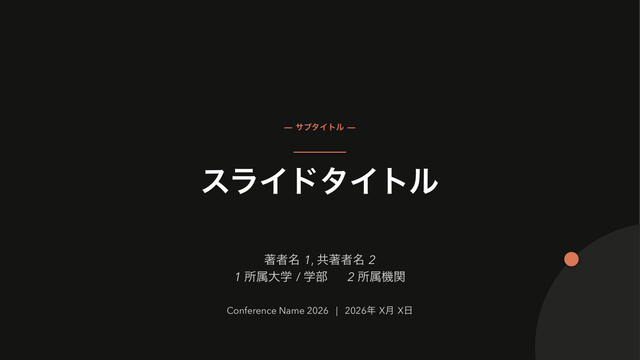
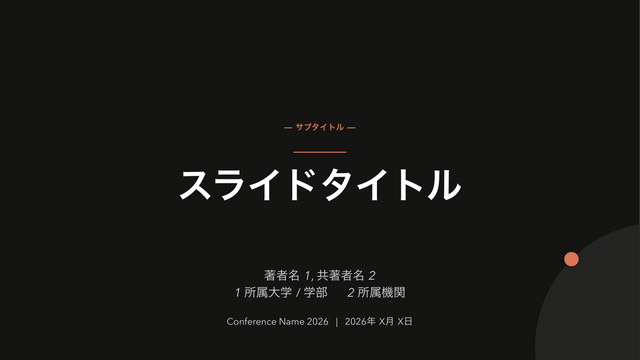
graphical-abstract (58th type): the one-figure story every talk owes
「グラフィカルアブストラクトもないとダメ」— the research-talk staple
had no type. graphical-abstract composes 課題 ▶ 提案 ▶ 成果 as one
native figure: a light problem card, an accent-framed method card with
an optional mini step chain (ga-steps, split on →), and a dark result
field carrying the hero number (ga-kpi, ~50pt, measured box), joined by
fat accent chevrons, with a ga-foot line for the measurement conditions.
All shapes editable; h2 renders as the lead line.

- parser: ga-problem/ga-method/ga-result divs with ga-label/ga-body/
  ga-kpi/ga-steps spans + ga-foot
- doctrine: SKILL.md + MCP authoring_guide now say "graphical-abstract
  right after the cover" — the audience gets the whole story in two
  slides
- showcase gains it as slide 2 (21 slides), doctor-clean

181 passed (counts at 58); gallery 58/58; skeletons regenerated.

Claude-Session: https://claude.ai/code/session_017fP3X4NokWzessKVkvdYeN

Changed region(s): [[0.3438, 0.7028, 0.6562, 0.9167], [0.2812, 0.4583, 0.7188, 0.55]]

diff --git a/src/marp_pptx/builder.py b/src/marp_pptx/builder.py
@@ -2686,6 +2686,141 @@ class PptxBuilder:
         d2.fill.solid(); d2.fill.fore_color.rgb = self.ACCENT
         d2.line.fill.background(); self._no_shadow(d2)
 
+    def build_graphical_abstract(self, sd: SlideData):
+        """研究の一枚絵: 課題 → 手法 → 成果 の3パネルを太矢印で繋ぐ。
+
+        The figure every research talk owes its audience right after the
+        cover — the whole story at a glance. All native shapes: a light
+        problem card, an accent-framed method card (optionally with a mini
+        step chain), and a dark result field with the hero number.
+        """
+        slide = self._blank_slide()
+        if sd.h1:
+            self._add_title(slide, sd.h1)
+        rleft, rtop, rwidth, rheight = self._content_region_with_lead(slide, sd)
+        ga = sd.ga or {}
+        panels = [(k, ga.get(k) or {}) for k in ("problem", "method", "result")]
+        if not any(p for _, p in panels):
+            self._warn("graphical-abstract: no ga-problem/ga-method/ga-result divs")
+            return
+        arrow_w = int(Inches(0.55))
+        gap = int(Inches(0.22))
+        pw = (rwidth - 2 * (arrow_w + 2 * gap)) // 3
+        pad = int(Pt(14))
+        inner = pw - pad * 2
+        label_h = int(Inches(0.34))
+        # measure: tallest panel decides the shared height
+        need = int(Inches(1.6))
+        for key, pdata in panels:
+            h = label_h + int(Pt(8))
+            if key == "result" and pdata.get("kpi"):
+                h += int(Pt(SZ_METRIC.pt * 1.15 * metrics.DEFAULT_LINE_FACTOR))
+            if pdata.get("steps"):
+                h += int(Inches(0.5))
+            if pdata.get("body"):
+                h += int(self._estimate_text_height(
+                    pdata["body"].split("\n"), SZ_ZONE_B, width=inner,
+                    line_spacing=LINE_BODY))
+            need = max(need, h + pad * 2)
+        foot = ga.get("foot", "")
+        foot_h = (int(self._estimate_text_height([foot], SZ_SMALL, width=rwidth))
+                  + int(Inches(0.14))) if foot else 0
+        ph = int(min(need, rheight - foot_h - int(Inches(0.1))))
+        top = rtop + max(0, (rheight - ph - foot_h) // 2)
+
+        x = rleft
+        for pi, (key, pdata) in enumerate(panels):
+            dark = key == "result"
+            bx = slide.shapes.add_shape(MSO_SHAPE.ROUNDED_RECTANGLE,
+                                        int(x), int(top), int(pw), ph)
+            bx.adjustments[0] = CARD_RADIUS
+            if dark:
+                bx.fill.solid(); bx.fill.fore_color.rgb = self.PRIMARY
+                bx.line.fill.background()
+            elif key == "method":
+                bx.fill.solid(); bx.fill.fore_color.rgb = self.SURFACE
+                bx.line.color.rgb = self.ACCENT
+                bx.line.width = Pt(1.5)
+            else:
+                bx.fill.solid(); bx.fill.fore_color.rgb = self.LIGHT
+                bx.line.color.rgb = self.HAIRLINE
+                bx.line.width = HAIRLINE_W
+            if self.LAYOUT.card_shadow and not dark:
+                self._soft_shadow(bx)
+            else:
+                self._no_shadow(bx)
+
+            cy = top + pad
+            label = pdata.get("label", {"problem": "課題", "method": "提案",
+                                        "result": "成果"}[key])
+            lb = self._add_textbox(slide, int(x + pad), int(cy),
+                                   int(pw - pad * 2), label_h)
+            lp = lb.text_frame.paragraphs[0]
+            l_col = (self._hero_accent(4.5) if dark
+                     else self._text_safe(self.ACCENT, self.SURFACE))
+            self._kicker_para(lp, label, color=l_col, tracking=160)
+            cy += label_h + int(Pt(4))
+
+            if key == "result" and pdata.get("kpi"):
+                kpi_h = int(Pt(SZ_METRIC.pt * 1.15 * metrics.DEFAULT_LINE_FACTOR))
+                kb = self._add_textbox(slide, int(x + pad), int(cy),
+                                       int(pw - pad * 2), kpi_h)
+                kp = kb.text_frame.paragraphs[0]
+                kp.text = pdata["kpi"]
+                kp.font.name = self.FONT_HEAD
+                kp.font.size = self._fs(Pt(SZ_METRIC.pt * 1.15))
+                kp.font.bold = True
+                kp.font.color.rgb = self._hero_accent(2.5)
+                kp.alignment = PP_ALIGN.CENTER
+                cy += kpi_h
+            if pdata.get("steps"):
+                toks = [s.strip() for s in re.split(r"[→>]+", pdata["steps"])
+                        if s.strip()]
+                if toks:
+                    sb = self._add_textbox(slide, int(x + pad), int(cy),
+                                           int(pw - pad * 2), int(Inches(0.45)))
+                    sp = sb.text_frame.paragraphs[0]
+                    for ti, tok in enumerate(toks):
+                        if ti:
+                            ar = sp.add_run(); ar.text = "  ▶  "
+                            ar.font.size = self._fs(Pt(11))
+                            ar.font.color.rgb = self.ACCENT
+                        r = sp.add_run(); r.text = tok
+                        r.font.name = self.FONT_HEAD
+                        r.font.size = self._fs(Pt(12.5))
+                        r.font.bold = True
+                        r.font.color.rgb = self.FG
+                    sp.alignment = PP_ALIGN.CENTER
+                    cy += int(Inches(0.5))
+            if pdata.get("body"):
+                bb = self._add_textbox(slide, int(x + pad), int(cy),
+                                       int(pw - pad * 2),
+                                       int(top + ph - pad - cy))
+                tf = bb.text_frame; tf.word_wrap = True
+                b_col = self._tint(self.PRIMARY, 0.85) if dark else self.FG
+                for j, line in enumerate(pdata["body"].split("\n")):
+                    pl = tf.paragraphs[0] if j == 0 else tf.add_paragraph()
+                    self._set_rich_text(pl, line, SZ_ZONE_B, b_col)
+                    pl.line_spacing = LINE_BODY
+            x += pw
+            if pi < 2:
+                ay = int(top + ph // 2 - Pt(16))
+                ar = slide.shapes.add_shape(MSO_SHAPE.CHEVRON,
+                                            int(x + gap), ay,
+                                            arrow_w, int(Pt(32)))
+                ar.fill.solid(); ar.fill.fore_color.rgb = self.ACCENT
+                ar.line.fill.background(); self._no_shadow(ar)
+                x += arrow_w + 2 * gap
+        if foot:
+            fb = self._add_textbox(slide, rleft, int(top + ph + Inches(0.12)),
+                                   rwidth, foot_h)
+            fb.text_frame.word_wrap = True
+            fp = fb.text_frame.paragraphs[0]
+            self._rich_line(fp, foot, SZ_SMALL, self.MUTED)
+            fp.alignment = PP_ALIGN.CENTER
+        if sd.footnote:
+            self._add_footnote(slide, sd.footnote)
+
     def build_split_panel(self, sd: SlideData):
         """Half-bleed color panel: the left 40% is a full-height PRIMARY
         field carrying the claim in white; content sits right. The single
@@ -4421,6 +4556,7 @@ class PptxBuilder:
         "flow": "build_flow",
         "paper": "build_paper",
         "split-panel": "build_split_panel",
+        "graphical-abstract": "build_graphical_abstract",
         "rq": "build_rq",
         "result-dual": "build_result_dual",
         "summary": "build_summary",

diff --git a/src/marp_pptx/parser.py b/src/marp_pptx/parser.py
@@ -274,6 +274,7 @@ class SlideData:
     paper_venue: str = ""
     paper_stats: str = ""
     paper_why: str = ""
+    ga: dict = field(default_factory=dict)   # graphical-abstract panels
     build: bool = False            # <!-- build --> progressive disclosure
     build_upto: int | None = None  # expanded copies: show items < upto full
     build_total: int | None = None
@@ -1033,6 +1034,24 @@ def parse_slide(index: int, raw: str) -> SlideData:
                     "value": strip_html(vm.group(1)) if vm else "",
                     "desc": strip_html(dm.group(1)) if dm else "",
                 })
+
+    elif cls == "graphical-abstract":
+        for key in ("ga-problem", "ga-method", "ga-result"):
+            div = extract_div(content, key)
+            if not div:
+                continue
+            panel: dict = {}
+            for span, attr in (("ga-label", "label"), ("ga-body", "body"),
+                               ("ga-kpi", "kpi"), ("ga-steps", "steps")):
+                m2 = re.search(rf'class="[^"]*{span}[^"]*"[^>]*>(.*?)</span>',
+                               div, re.DOTALL)
+                if m2:
+                    panel[attr] = text_with_breaks(m2.group(1))
+            if panel:
+                sd.ga[key.replace("ga-", "")] = panel
+        foot = extract_div(content, "ga-foot")
+        if foot:
+            sd.ga["foot"] = strip_html(foot)
 
     elif cls == "split-panel":
         div = extract_div(content, "sp-body")

diff --git a/src/marp_pptx/types/__init__.py b/src/marp_pptx/types/__init__.py
@@ -63,6 +63,7 @@ TYPE_REGISTRY: list[SlideTypeInfo] = [
     SlideTypeInfo("flow", "flow", "flow", "□→□→□ +loop", "ブロック図・ループ図", "mermaid flowchart 記法から編集可能なブロック図/機器構成図/反復ループ図を描くとき", "55-flow.md"),
     SlideTypeInfo("paper", "paper", "knowledge", "▤書誌+理由+要点", "文献報告の書誌カード", "輪読・文献調査で紹介論文の書誌情報・選定理由・要点を1枚にするとき", "56-paper.md"),
     SlideTypeInfo("split-panel", "split-panel", "structure", "▮左色面│本文", "ハーフブリード色面パネル", "画面端まで塗った色面に主張を白抜きし、右に本文を置くとき（キーノート級の1枚）", "57-split-panel.md"),
+    SlideTypeInfo("graphical-abstract", "graphical-abstract", "structure", "□→□→▪ 一枚絵", "グラフィカルアブストラクト", "表紙直後に課題→手法→成果を1枚の図で示すとき（研究発表の定番）", "58-graphical-abstract.md"),
 
     # ── Flow ──
     SlideTypeInfo("zone-flow", "zone-flow", "flow", "□→□→□", "フロー・因果", "原因→結果の流れを示すとき", "18-zone-flow.md"),

diff --git a/src/marp_pptx/mcp.py b/src/marp_pptx/mcp.py
@@ -184,6 +184,7 @@ def authoring_guide() -> str:
         "10. 段階開示: sections/flow スライドに <!-- build --> で帯/ノードが1つずつ\n"
         "    増える連作に自動展開（未来分ゴースト）。導出・学習過程を見せる要。\n"
         "11. 説得の3点セット: 主張(H1)→根拠(数値+出典)→解釈(h2リード/結論箱)。\n"
+        "    表紙直後に graphical-abstract（課題▶提案▶成果の一枚絵）を1枚。\n"
         "    導出は build で積み上げ、限界(言えること/言えないこと)を1枚明示。\n"
         "12. 出す前に必ず check_deck（error は修正必須）→ 必要なら preview_png で目視。\n"
         "13. 発表者ノート `<!-- note: ... -->`、出典 `<!-- source: ... -->`（図の出典｜行）。\n"

diff --git a/tests/test_mcp.py b/tests/test_mcp.py
@@ -11,7 +11,7 @@ from marp_pptx.render import tools_available
 
 def test_slide_types():
     allt = srv.slide_types()
-    assert len(allt) == 57
+    assert len(allt) == 58
     assert {"name", "category", "meaning", "use_when", "geometry"} <= set(allt[0])
     evals = srv.slide_types("evaluation")
     assert evals and all(t["category"] == "evaluation" for t in evals)

diff --git a/tests/test_web.py b/tests/test_web.py
@@ -64,7 +64,7 @@ def test_api_types(client):
     assert r.status_code == 200
     data = json.loads(r.data)
     assert isinstance(data, list)
-    assert len(data) == 57
+    assert len(data) == 58
     names = {t["name"] for t in data}
     assert {"title", "funnel", "statement", "big-number", "chart"} <= names
 

diff --git a/skills/marp-pptx/references/type-skeletons.md b/skills/marp-pptx/references/type-skeletons.md
@@ -255,6 +255,37 @@ $$E = mc^2$$
 </div>
 ```
 
+### `graphical-abstract` — グラフィカルアブストラクト
+<!-- □→□→▪ 一枚絵 · 表紙直後に課題→手法→成果を1枚の図で示すとき（研究発表の定番） -->
+
+```markdown
+<!-- _class: graphical-abstract -->
+
+# 本研究の全体像
+
+## 一枚で｜課題 → 提案 → 成果
+
+<div class="ga-problem">
+  <span class="ga-label">課題</span>
+  <span class="ga-body">PV 受入可否の判定は総当たり AC × 二分探索で **94 分**。申請ペースに計算が追いつかず、回答は翌日持ち越しになっている。</span>
+</div>
+
+<div class="ga-method">
+  <span class="ga-label">提案</span>
+  <span class="ga-steps">感度行列 → LP 一括 → AC 検証</span>
+  <span class="ga-body">ヤコビアンから抽出した感度行列で LP が候補を一括生成し、AC 潮流は違反時のみ再検証。速さと正しさを ==分業== する。</span>
+</div>
+
+<div class="ga-result">
+  <span class="ga-label">成果</span>
+  <span class="ga-kpi">47×</span>
+  <span class="ga-body">94.1 分 → 2.0 分（1,200 ノード実測）
+誤差 ±1.8%・平均 3 反復で収束</span>
+</div>
+
+<div class="ga-foot">実測条件: Xeon w5-2455X 単スレッド／6.6 kV 放射状フィーダ 300〜1,200 ノード</div>
+```
+
 ## 時間（temporal）
 
 ### `timeline-h` — 時系列・経過

diff --git a/demo/claude-showcase.md b/demo/claude-showcase.md
@@ -9,6 +9,34 @@ marp: true
 
 ---
 
+<!-- _class: graphical-abstract -->
+
+# 本研究の全体像
+
+## 一枚で｜課題 → 提案 → 成果
+
+<div class="ga-problem">
+  <span class="ga-label">課題</span>
+  <span class="ga-body">PV 受入可否の判定は総当たり AC × 二分探索で **94 分**。申請ペースに計算が追いつかず、回答は翌日持ち越しになっている。</span>
+</div>
+
+<div class="ga-method">
+  <span class="ga-label">提案</span>
+  <span class="ga-steps">感度行列 → LP 一括 → AC 検証</span>
+  <span class="ga-body">ヤコビアンから抽出した感度行列で LP が候補を一括生成し、AC 潮流は違反時のみ再検証。速さと正しさを ==分業== する。</span>
+</div>
+
+<div class="ga-result">
+  <span class="ga-label">成果</span>
+  <span class="ga-kpi">47×</span>
+  <span class="ga-body">94.1 分 → 2.0 分（1,200 ノード実測）
+誤差 ±1.8%・平均 3 反復で収束</span>
+</div>
+
+<div class="ga-foot">実測条件: Xeon w5-2455X 単スレッド／6.6 kV 放射状フィーダ 300〜1,200 ノード</div>
+
+---
+
 <!-- _class: agenda -->
 # 本日の 3 つの問い
 <div class="agenda-list">

diff --git a/src/marp_pptx/data/templates/58-graphical-abstract.md b/src/marp_pptx/data/templates/58-graphical-abstract.md
@@ -1,0 +1,31 @@
+---
+marp: true
+theme: academic
+paginate: true
+---
+
+<!-- _class: graphical-abstract -->
+
+# 本研究の全体像
+
+## 一枚で｜課題 → 提案 → 成果
+
+<div class="ga-problem">
+  <span class="ga-label">課題</span>
+  <span class="ga-body">PV 受入可否の判定は総当たり AC × 二分探索で **94 分**。申請ペースに計算が追いつかず、回答は翌日持ち越しになっている。</span>
+</div>
+
+<div class="ga-method">
+  <span class="ga-label">提案</span>
+  <span class="ga-steps">感度行列 → LP 一括 → AC 検証</span>
+  <span class="ga-body">ヤコビアンから抽出した感度行列で LP が候補を一括生成し、AC 潮流は違反時のみ再検証。速さと正しさを ==分業== する。</span>
+</div>
+
+<div class="ga-result">
+  <span class="ga-label">成果</span>
+  <span class="ga-kpi">47×</span>
+  <span class="ga-body">94.1 分 → 2.0 分（1,200 ノード実測）
+誤差 ±1.8%・平均 3 反復で収束</span>
+</div>
+
+<div class="ga-foot">実測条件: Xeon w5-2455X 単スレッド／6.6 kV 放射状フィーダ 300〜1,200 ノード</div>
